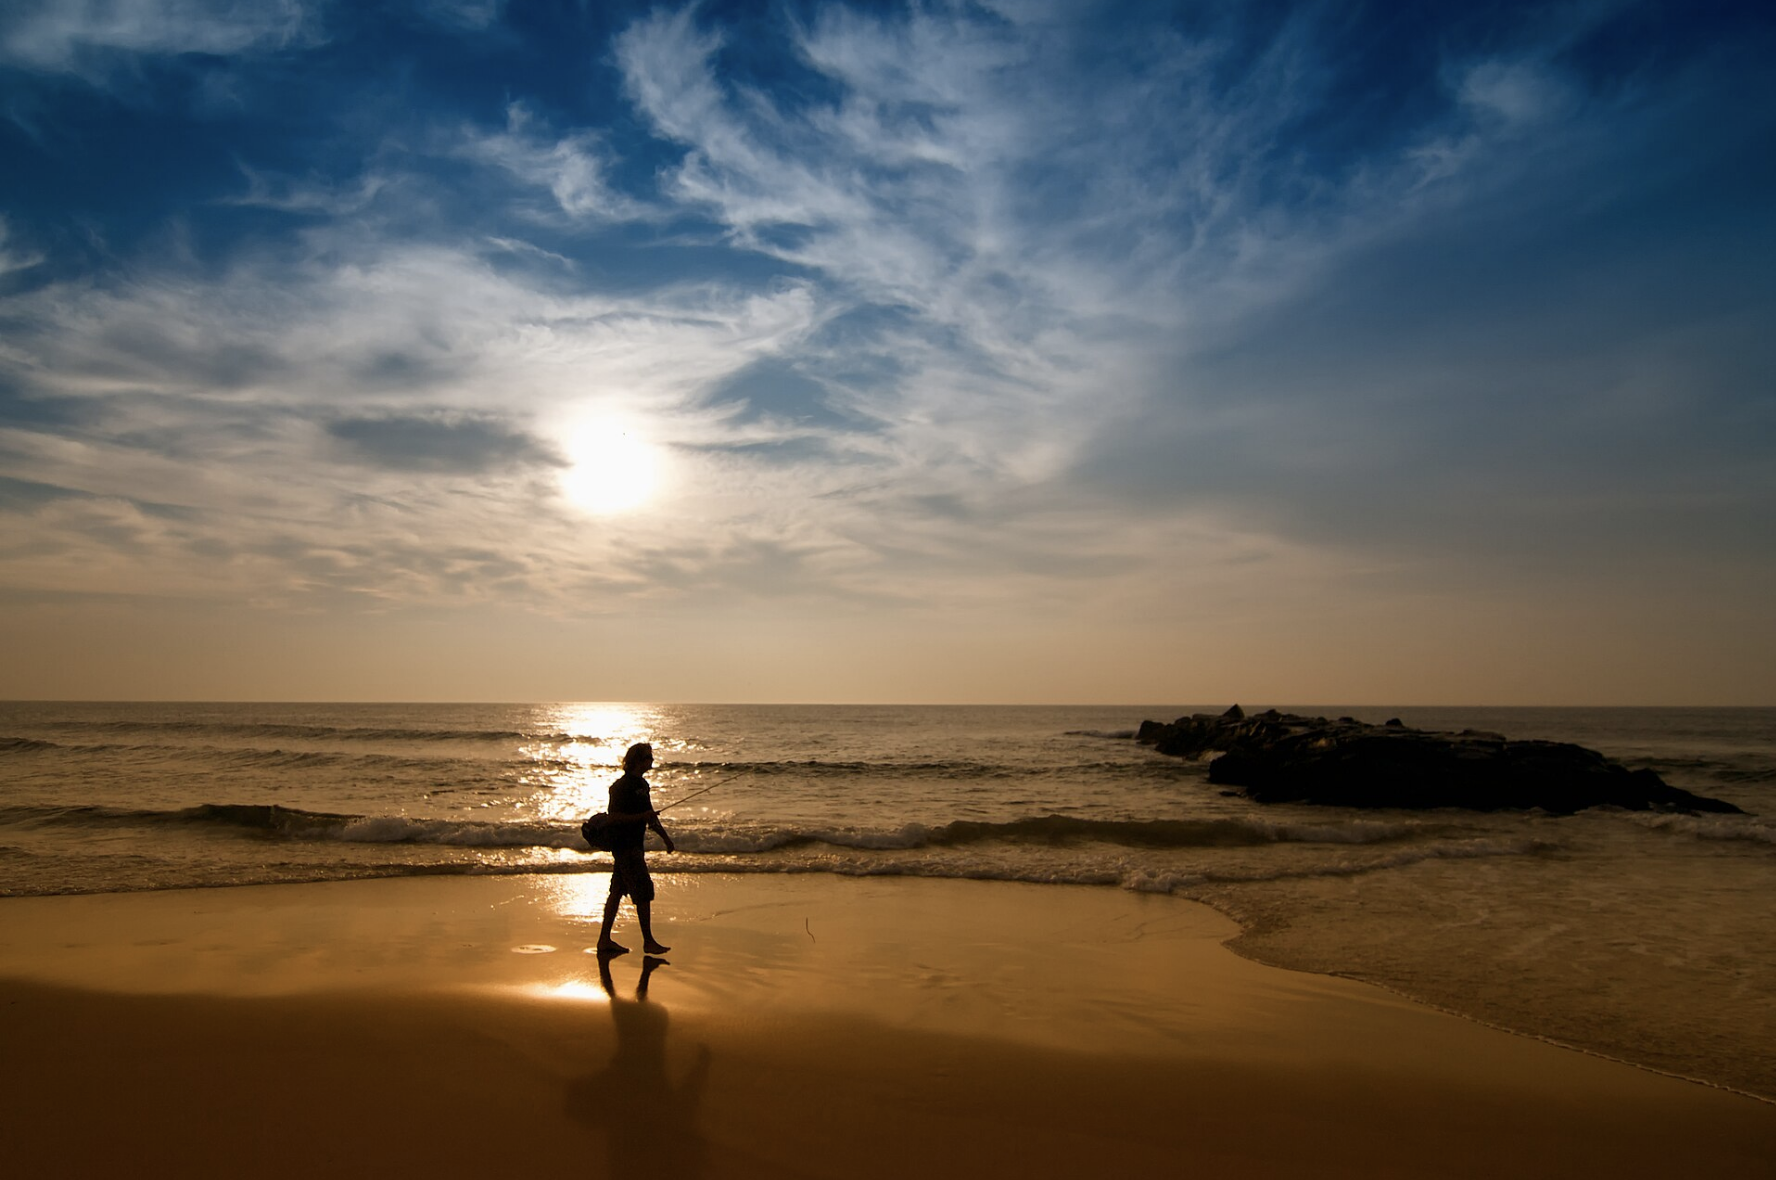
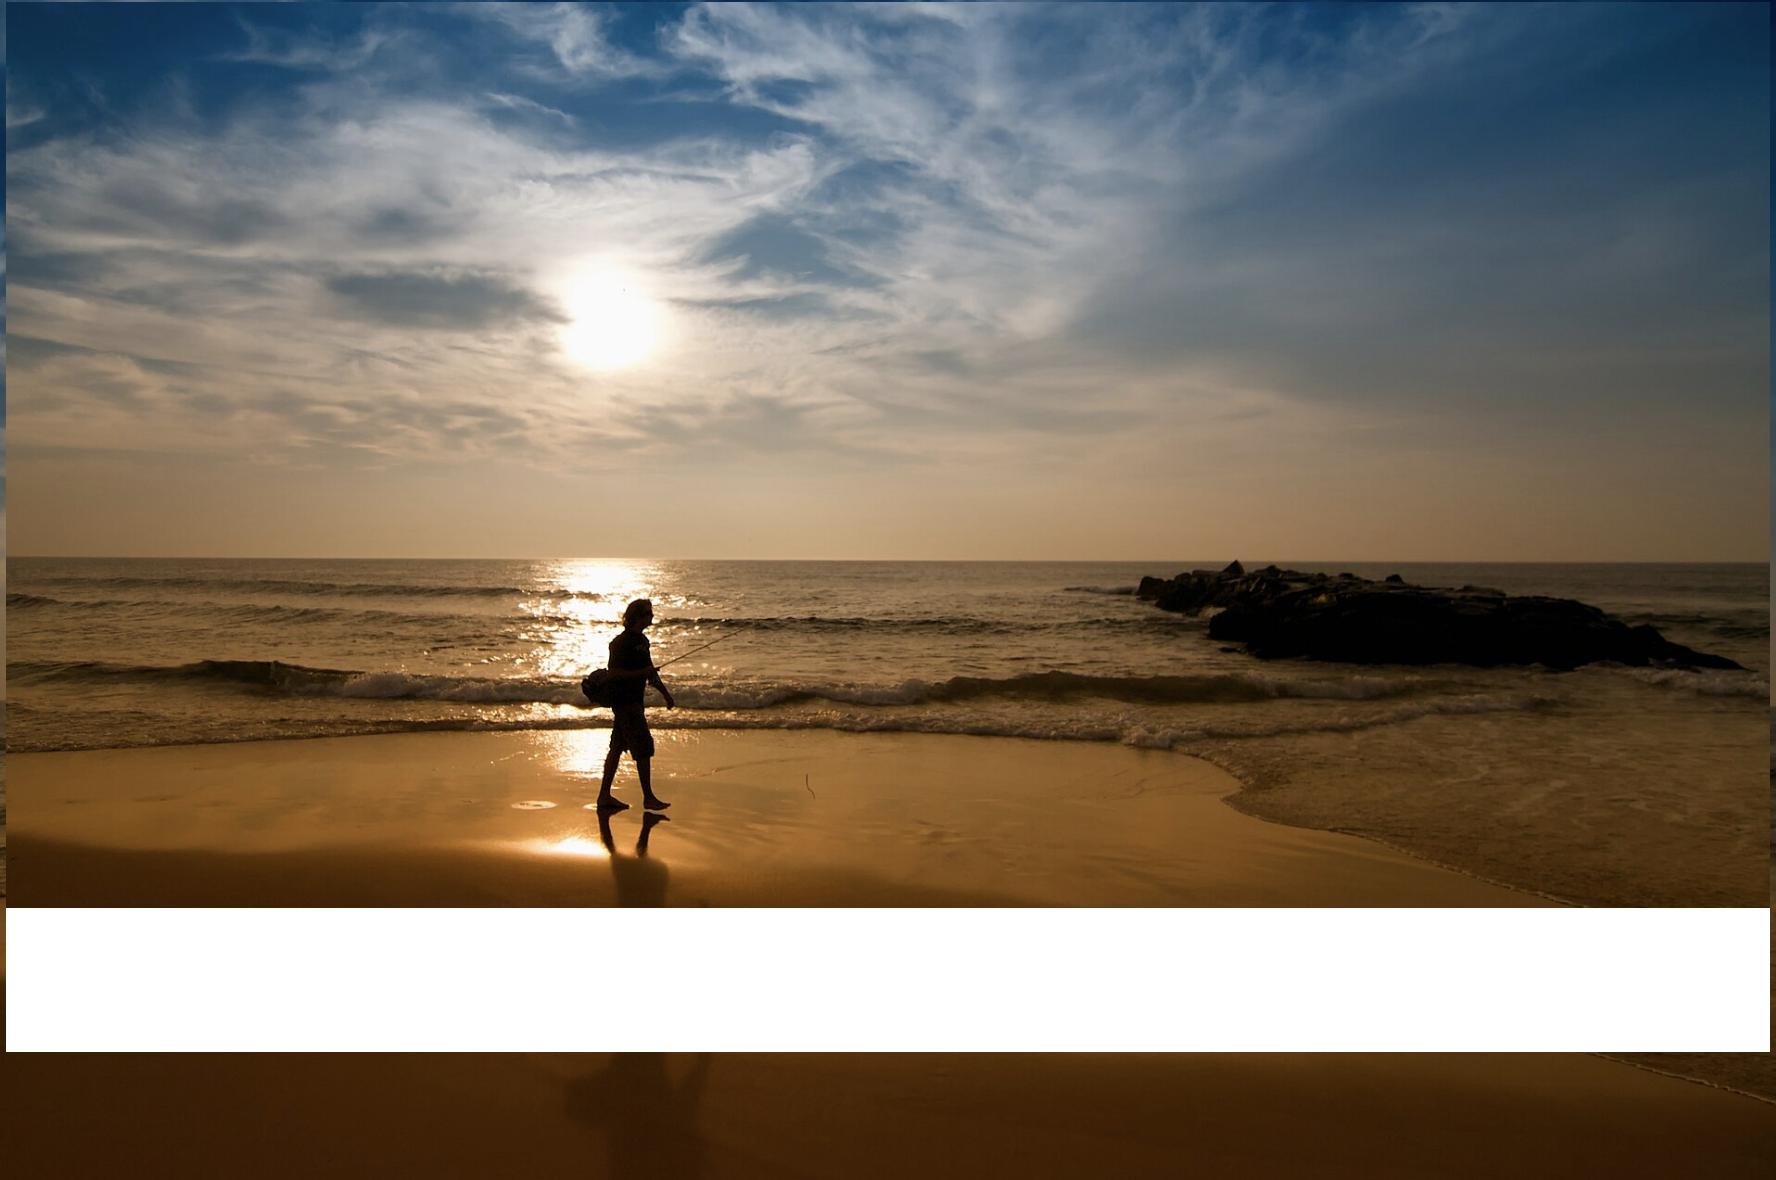
Add files via upload

diff --git a/css/style.css b/css/style.css
@@ -5,7 +5,6 @@
 }
 .hero img{
  width: 95%;
- height: 85%;
  float:left;
 }
 .hero2 img{
@@ -98,11 +97,11 @@ h2 {
 }
 h3 {
     font-size: 2em;
-    padding-top: 1em;
     color: #f4f1f5;
-    text-align: center;
     position: absolute;
-   padding-left: 1em;
+    padding-left: 1em;
+    padding-top: 1em;
+    text-align: center;
   }
   
 

diff --git a/index.html b/index.html
@@ -25,7 +25,7 @@
   <ul>
     <main>
         <div class="hero">
-          <img alt="Good sunrise day" src="images/GoodDay.png">
+          <img alt="Good sunrise day" src="images/GoodDaysmall.png">
         </div>
       </main> 
    
